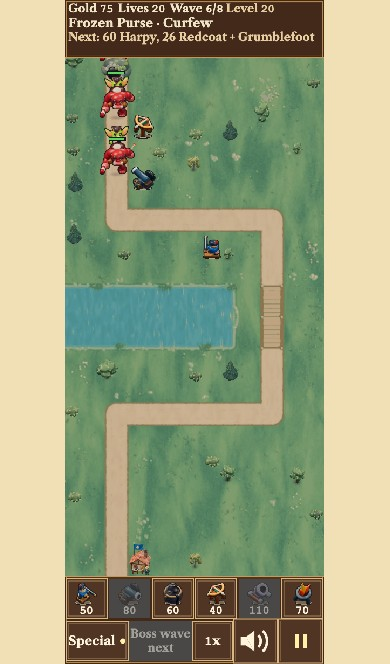
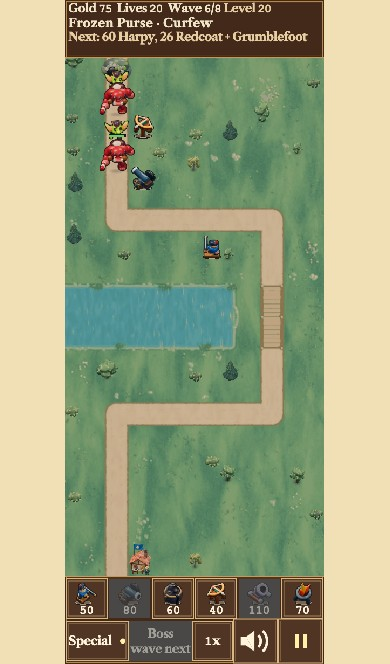
Give taxed phone HUD labels a measured size margin

diff --git a/src/game/hud.ts b/src/game/hud.ts
@@ -83,6 +83,7 @@ import {
   PORTRAIT,
   PORTRAIT_GAP,
   TAXED_PORTRAIT,
+  TAXED_HUD_FONT_SIZE,
   PORTRAIT_STRIP_H,
   PORTRAIT_WIDTH,
   type Layout,
@@ -325,7 +326,7 @@ export const LANDSCAPE_HUD: HudMetrics = {
 function portraitHud(layout: Layout): HudMetrics {
   const { special, start, speed, mute, pause } = portraitRow2(1, layout);
   const taxed = layout === TAXED_PORTRAIT;
-  const size = taxed ? '21px' : '20px';
+  const size = taxed ? `${TAXED_HUD_FONT_SIZE}px` : '20px';
   const stripHeight = layout.map.y;
   const controlsY = stripHeight + layout.map.height;
   return {
@@ -338,7 +339,7 @@ function portraitHud(layout: Layout): HudMetrics {
       { x: 0, y: stripHeight - 2, width: PORTRAIT_WIDTH, height: 2 },
       { x: 0, y: controlsY, width: PORTRAIT_WIDTH, height: 2 },
     ],
-    statY: 15,
+    statY: taxed ? 14 : 15,
     statSize: size,
     goldX: 6,
     flowGap: taxed ? 8 : 14,
@@ -352,8 +353,8 @@ function portraitHud(layout: Layout): HudMetrics {
     pause,
     specialFont: '23px',
     startFont: '23px',
-    callFont: taxed ? '21px' : '23px',
-    menu: { left: special.x, top: controlsY, size: PORTRAIT_STACK, font: size },
+    callFont: '23px',
+    menu: { left: special.x, top: controlsY, size: PORTRAIT_STACK, font: taxed ? '21px' : '20px' },
     barTop: controlsY + PORTRAIT_GAP,
   };
 }
@@ -442,18 +443,23 @@ export class Hud {
       .text(m.cheat.x, m.cheat.y, CHEAT_MARK, { fontFamily: FONT, fontSize: m.cheat.size, fontStyle: 'bold', color: TEXT.cheatMark })
       .setOrigin(m.cheat.originX, 0.5)
       .setVisible(false);
-    if (layout === TAXED_PORTRAIT) {
-      this.cheatMark.setStyle({ metrics: { ascent: statSize, descent: 4, fontSize: statSize + 4 } });
-      this.next.setStyle({ metrics: { ascent: 18, descent: 6, fontSize: 24 } });
-    }
     // Milestone 33: Start Wave's own sound is the horn (or Call next's), so its click plays no tap.
     this.startButton = new Button(scene, m.start, START_WAVE_TEXT, handlers.onStartWave, m.portrait ? { fontSize: m.startFont, sound: null } : { sound: null });
+    const startWrapWidth = m.start.width - 6;
     if (m.portrait) {
-      // Reserve two lines inside the wave plaque, including ascenders and descenders.
-      // Wrap at the tall phone's width; a narrower plaque scales the same two lines.
+      // Fixed metrics reserve two lines, including ascenders and descenders.
       this.startButton.labelObjects[0]
         .setStyle({ metrics: { ascent: 23, descent: 6, fontSize: 29 } })
-        .setWordWrapWidth(m.start.width - 6, true);
+        .setWordWrapWidth(startWrapWidth, true);
+    }
+    if (layout === TAXED_PORTRAIT) {
+      // Keep wide fallback text inside the plaques and the two-line preview.
+      for (const label of [this.gold, this.lives, this.wave, this.tag, this.next,
+        this.specialButton.labelObjects[0], this.startButton.labelObjects[0]]) {
+        label.setLetterSpacing(-1);
+      }
+      this.cheatMark.setStyle({ metrics: { ascent: statSize, descent: 4, fontSize: statSize + 4 } });
+      this.next.setStyle({ metrics: { ascent: 18, descent: 6, fontSize: 24 } });
     }
     this.speedButton = new Button(scene, m.speed, '1x', handlers.onToggleSpeed, { onPress: handlers.onSpeedPress, fontSize: m.portrait ? m.startFont : undefined });
     this.specialMenu = new SpecialMenu(scene, m.menu.left, m.menu.top, handlers.onSpecialPick, layout.map.y, m.menu.size, m.menu.font);
@@ -479,6 +485,7 @@ export class Hud {
         if (row.pause.width !== m.pause.width) {
           Object.assign(m, row);
           this.startButton.setWidth(row.start.width);
+          if (layout === TAXED_PORTRAIT) this.startButton.labelObjects[0].setWordWrapWidth(Math.min(startWrapWidth, row.start.width), true);
           this.speedButton.moveTo(row.speed.x, row.speed.y);
           this.muteButton.setRect(row.mute);
           this.pauseButton.setSize(row.pause.width, row.pause.height);

diff --git a/src/game/ui/bossBar.ts b/src/game/ui/bossBar.ts
@@ -10,7 +10,7 @@ import type Phaser from 'phaser';
 import { enemyMaxHp, isBoss, type GameState } from '../../sim';
 import { panel, THEME } from './theme';
 import { ENEMY_NAMES } from '../names';
-import { LANDSCAPE, TAXED_PORTRAIT, type Layout } from '../layout';
+import { LANDSCAPE, TAXED_HUD_FONT_SIZE, TAXED_PORTRAIT, type Layout } from '../layout';
 import { COLORS, FONT, HUD_FONT, TEXT } from '../palette';
 
 export const BOSS_BAR = { x: 330, y: 24, width: 300, height: 14 } as const;
@@ -40,8 +40,8 @@ export function bossBarGeometry(layout: Layout): BossBarGeometry {
   return {
     bar: { x: m.x + (m.width - width) / 2, y: m.y + (taxed ? 36 : 34), width, height: taxed ? 28 : 22 },
     pill: { y: m.y + 6, height: taxed ? 28 : 26, padX: 6 },
-    nameSize: taxed ? 21 : 20,
-    hpSize: taxed ? 21 : 20,
+    nameSize: taxed ? TAXED_HUD_FONT_SIZE : 20,
+    hpSize: taxed ? TAXED_HUD_FONT_SIZE : 20,
   };
 }
 
@@ -96,7 +96,7 @@ export class BossBar {
       })
       .setOrigin(1, 0.5);
     if (layout === TAXED_PORTRAIT) {
-      const metrics = { ascent: 21, descent: 5, fontSize: 26 };
+      const metrics = { ascent: geo.nameSize, descent: 5, fontSize: geo.nameSize + 5 };
       this.name.setStyle({ metrics });
       this.hp.setStyle({ metrics });
     }

diff --git a/src/game/ui/buildBar.ts b/src/game/ui/buildBar.ts
@@ -7,7 +7,7 @@ import type Phaser from 'phaser';
 import { TOWER_DEFS, towerBuildCost, allowedTowers, type GameState, type TowerType } from '../../sim';
 import type { Rect } from '../input';
 import { drawTowerShape } from '../draw/towers';
-import { LANDSCAPE, TAXED_PORTRAIT, type Layout } from '../layout';
+import { LANDSCAPE, TAXED_HUD_FONT_SIZE, TAXED_PORTRAIT, type Layout } from '../layout';
 import type { PaintedSkin } from '../skin/painted';
 import { portraitBarRects } from './geometry';
 import { TOWER_NAMES, towerCountText } from '../names';
@@ -52,7 +52,7 @@ export class BuildBar {
   constructor(scene: Phaser.Scene, top: number, onClick: (type: TowerType) => void, private readonly layout: Layout = LANDSCAPE, painted?: PaintedSkin) {
     const portrait = layout.kind === 'portrait';
     const rects = barRects(layout, top);
-    const priceSize = layout === TAXED_PORTRAIT ? 21 : 20;
+    const priceSize = layout === TAXED_PORTRAIT ? TAXED_HUD_FONT_SIZE : 20;
     this.buttons = BAR_TYPES.map((type, i) =>
       portrait
         ? new Button(scene, rects[i], String(TOWER_DEFS[type].cost), () => onClick(type), { fontSize: `${priceSize}px`, labelY: COST_Y })

diff --git a/e2e/taxed-labels-phone.spec.ts b/e2e/taxed-labels-phone.spec.ts
@@ -101,7 +101,7 @@ async function checkHud(page: Page, level: LevelDef, phase: 'setup' | 'wave' | '
     expect.soft(label.visible && !!label.text, detail + ' visible').toBe(true);
     expect.soft(label.padding, detail + ' inside its panel or plaque').toBeGreaterThanOrEqual(0);
     expect.soft(label.uniform, detail + ' keeps glyph proportions').toBe(true);
-    const minimum = height === 844 || ['taxLine', 'tally', 'speed'].includes(label.id) ? 12 : 11.1;
+    const minimum = height === 844 || ['taxLine', 'tally', 'speed'].includes(label.id) ? 12 : 11.6;
     expect.soft(label.size, detail + ' CSS px').toBeGreaterThanOrEqual(minimum);
     test.info().annotations.push({ type: 'font', description: height + ' ' + detail + ' ' + label.size.toFixed(2) });
   }

diff --git a/src/game/layout.ts b/src/game/layout.ts
@@ -158,6 +158,7 @@ export const PORTRAIT = new Layout(
 // Taxed games reserve another line above the map. The two control rows gain
 // 3 px each to keep their physical targets when FIT scales the taller board.
 export const TAXED_CONTROL_H = 73;
+export const TAXED_HUD_FONT_SIZE = 22;
 export const TAXED_PORTRAIT = new Layout(
   'portrait',
   { width: PORTRAIT_WIDTH, height: PORTRAIT_HEIGHT + 32 + 2 * (TAXED_CONTROL_H - PORTRAIT_BUTTON_H) },

diff --git a/DEVLOG.md b/DEVLOG.md
@@ -10033,3 +10033,17 @@ and containment at both heights with one or two taxes, through combat,
 planning and results, in normal type and both fixed font modes.
 
 The second-act cards now use the retuned level records with the commissioned notices. Three Permits tells the player to use the permits and leave specials unused. Closing Time recommends upgrading after the second build. The layout checks cover every tax combination and both feat verdicts on every second-act stop, in landscape and at both phone heights with normal and fixed font metrics. The refreshed result captures show Bare hands earned on level 16 and Few hands missed on level 17. The Showpiece isolation reference is the rules-and-screens merge `818e86d`. All 72 Painted and Classic canvas comparisons matched that build, and 12 cold starts made no Showpiece requests. The phone comparison also checks both roads and the taxed Meadow game against Painted.
+
+**Short phone HUD, CI fix 1.** Linux measured “Boss wave next” at 11.022
+CSS px. With only the 390 × 664 floor raised from 11.1 to 11.6, the taxed
+label spec failed seven cases on the Mac at `7c06ab5`. The six tall-phone
+cases passed. The normal and fixed Caslon boss previews measured 11.318
+CSS px and fixed fallback measured 11.119. Stats, previews, prices and
+boss labels also fell below the new floor.
+
+The taxed wave button now uses one 23 px font through every state. This
+keeps its fixed two-line metrics when the wording changes. Narrower
+letter spacing and wrapping at the short plaque's width make room for the
+label. “Boss wave next” measured 11.866 CSS px in all three modes. Across
+all ten taxed levels the smallest short-phone HUD text measured 11.857 CSS
+px. The full map and both control rows fit within the existing frame.

diff --git a/docs/DESIGN.md b/docs/DESIGN.md
@@ -1379,7 +1379,7 @@ drawn and where touches land differ.
 - **Taxed portrait levels** use a 480 × 1232 canvas. The 108 px status strip
   has a row for gold, lives, wave and level, a row for taxes and the cheat
   mark, then two 24 px preview lines starting at y=58. Stats, previews and
-  tower prices use 21 px type. The tax names and tower tally use 23 px.
+  tower prices use 22 px type. The stat row is centred at y=14. The tax names and tower tally use 23 px.
   When the cheat mark is visible, the tax row lists names only and the build
   bar shows the permit count. Aiming uses the preview space for the action and
   its touch or mouse hint. The map still measures 480 × 960. Both control
@@ -1387,7 +1387,12 @@ drawn and where touches land differ.
   wide with 4 px gaps. The lower plaques have 2 px gaps, a 115 px Special
   and a 73 px speed button. The two icon buttons grow from 73 to 82 px at
   the shorter phone height. The wave plaque takes the remaining width.
-  The boss name and HP use 21 px type in 28 px boxes. On a feat result,
+  All wave-button states use 23 px type with a fixed 29 px line height. The
+  label wraps to the available plaque width on the shorter phone. The stats,
+  preview, Special and wave button use −1 px letter spacing. The boss name
+  and HP use 22 px type in 28 px boxes. At 390 × 664 the HUD labels measure
+  at least 11.6 CSS px, with 12 CSS px for taxes, the tally and speed. At
+  390 × 844 every HUD label measures at least 12 CSS px. On a feat result,
   23 px text and 82 px buttons keep the controls readable and tappable
   at the shorter height.
 - **The transform.** `src/game/layout.ts` owns every world-to-screen and
